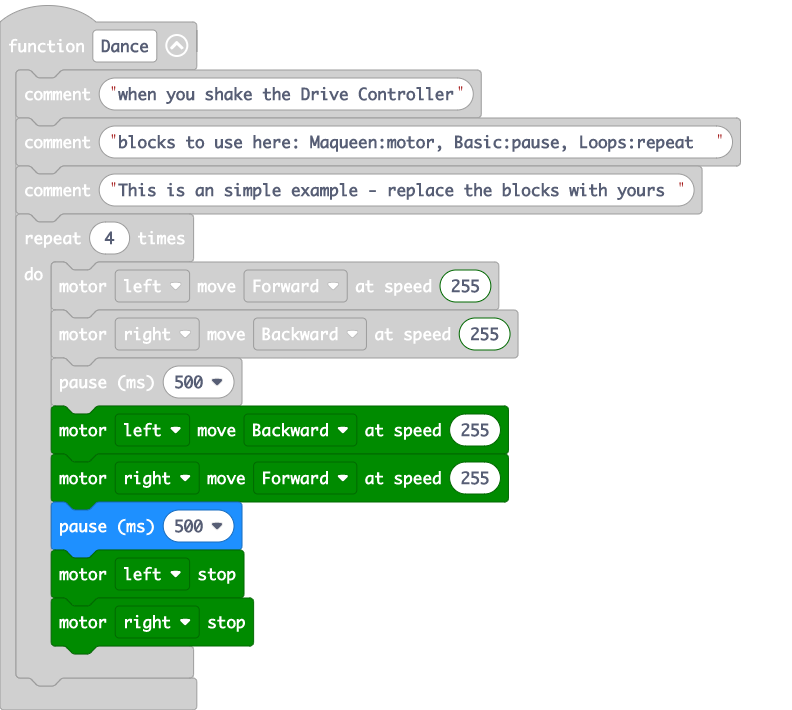
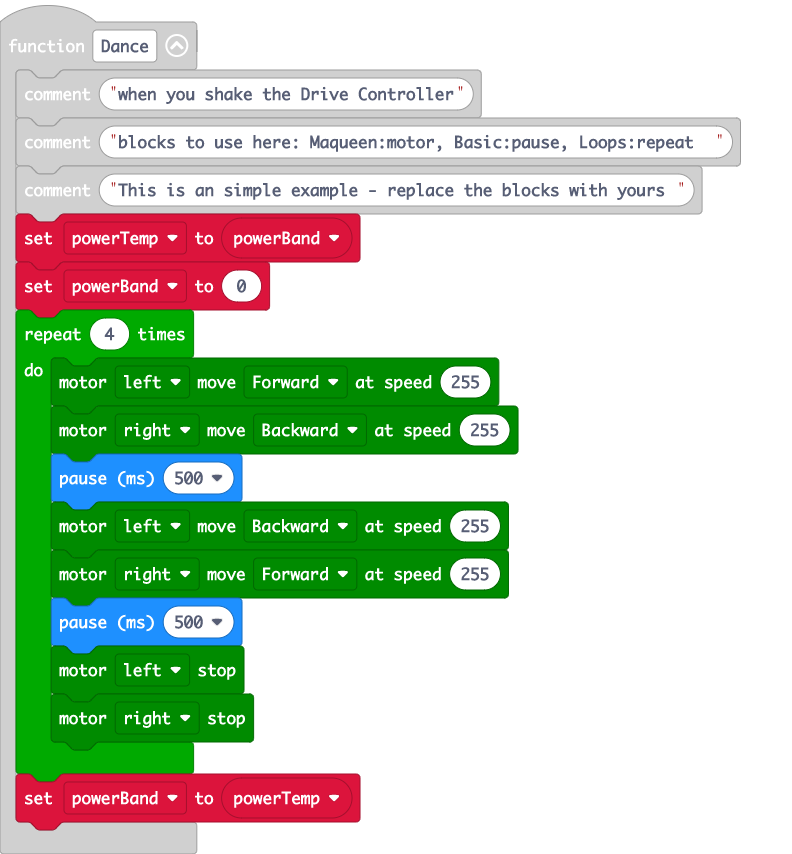
Update main.blocks, main.ts

diff --git a/main.ts b/main.ts
@@ -2,6 +2,8 @@ function Dance () {
     comment.comment("when you shake the Drive Controller")
     comment.comment("blocks to use here: Maqueen:motor, Basic:pause, Loops:repeat  ")
     comment.comment("This is an simple example - replace the blocks with yours ")
+    powerTemp = powerBand
+    powerBand = 0
     for (let index = 0; index < 4; index++) {
         maqueen.motorRun(maqueen.Motors.M1, maqueen.Dir.CW, 255)
         maqueen.motorRun(maqueen.Motors.M2, maqueen.Dir.CCW, 255)
@@ -12,6 +14,7 @@ function Dance () {
         maqueen.motorStop(maqueen.Motors.M1)
         maqueen.motorStop(maqueen.Motors.M2)
     }
+    powerBand = powerTemp
 }
 function Horns () {
     comment.comment("when A+B is pressed on Drive Controller")
@@ -42,9 +45,10 @@ radio.onReceivedValue(function (name, value) {
 })
 let powerRight = 0
 let powerLeft = 0
-let powerBand = 0
 let turn = 0
 let throttle = 0
+let powerBand = 0
+let powerTemp = 0
 comment.comment("same radio group as driver station")
 radio.setGroup(0)
 basic.showIcon(IconNames.Happy)
